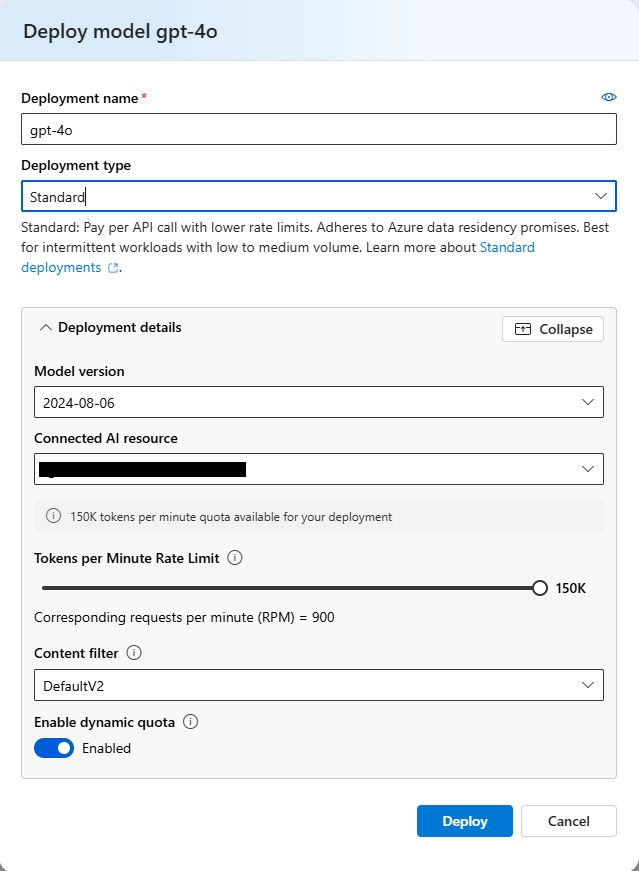
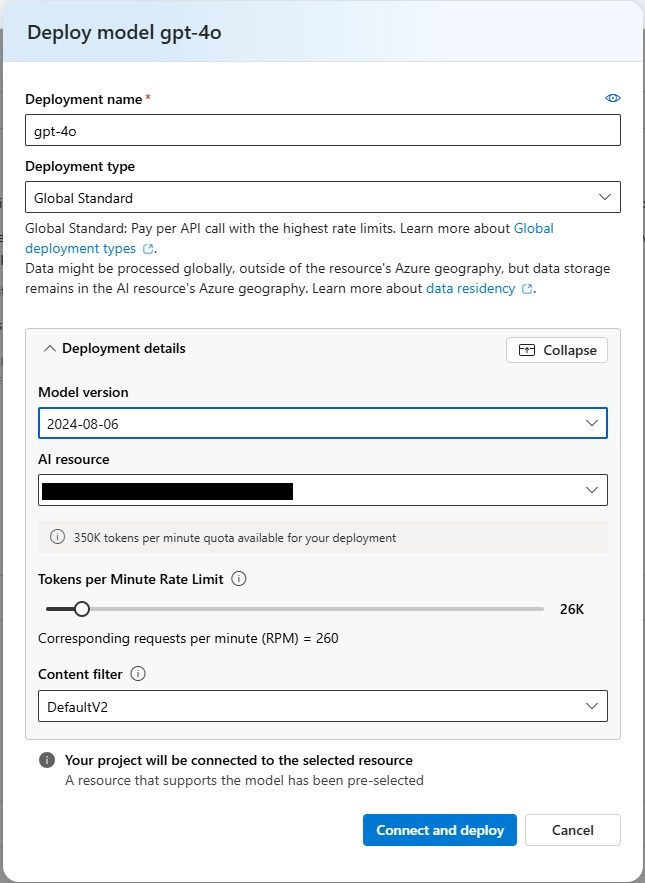
Don't use max rate limit, for cost and capacity reasons

Changed region(s): [[0.0, 0.031, 1.0, 1.0]]

diff --git a/docs/wksp/05-semantic-kernel-workshop/simple-ai-orchestration/pre-reqs.md b/docs/wksp/05-semantic-kernel-workshop/simple-ai-orchestration/pre-reqs.md
@@ -101,7 +101,7 @@ cd intelligent-app-workshop
     1. If your desired model is not deployed, click on **Deploy Model** then select to **Deploy Base Model**.
     1. You will need a chat completion model. For this workshop we recommend using `gpt-4o`. Select `gpt-4o` from the drop down and click **Confirm**.
     1. Click **Customize** and choose the `2024-08-06` model. At the time of this workshop, this is the latest version that integrates with Azure AI Agent Service, which we will use in Lesson 6.
-    1. Choose the maximum available Enqueued Tokens limit. This will vary by current availability.
+    1. Adjust the Tokens per Minute Rate Limit to at least 250 requests per minute (RPM)
     1. Click **Deploy**.
         ![Terminal](./images/deploy-model.jpg)
     1. Use the **Deployment Name** value (e.g. gpt-4o) as the **deploymentName** value within the `OpenAI` element in the `appsettings.json` file.
